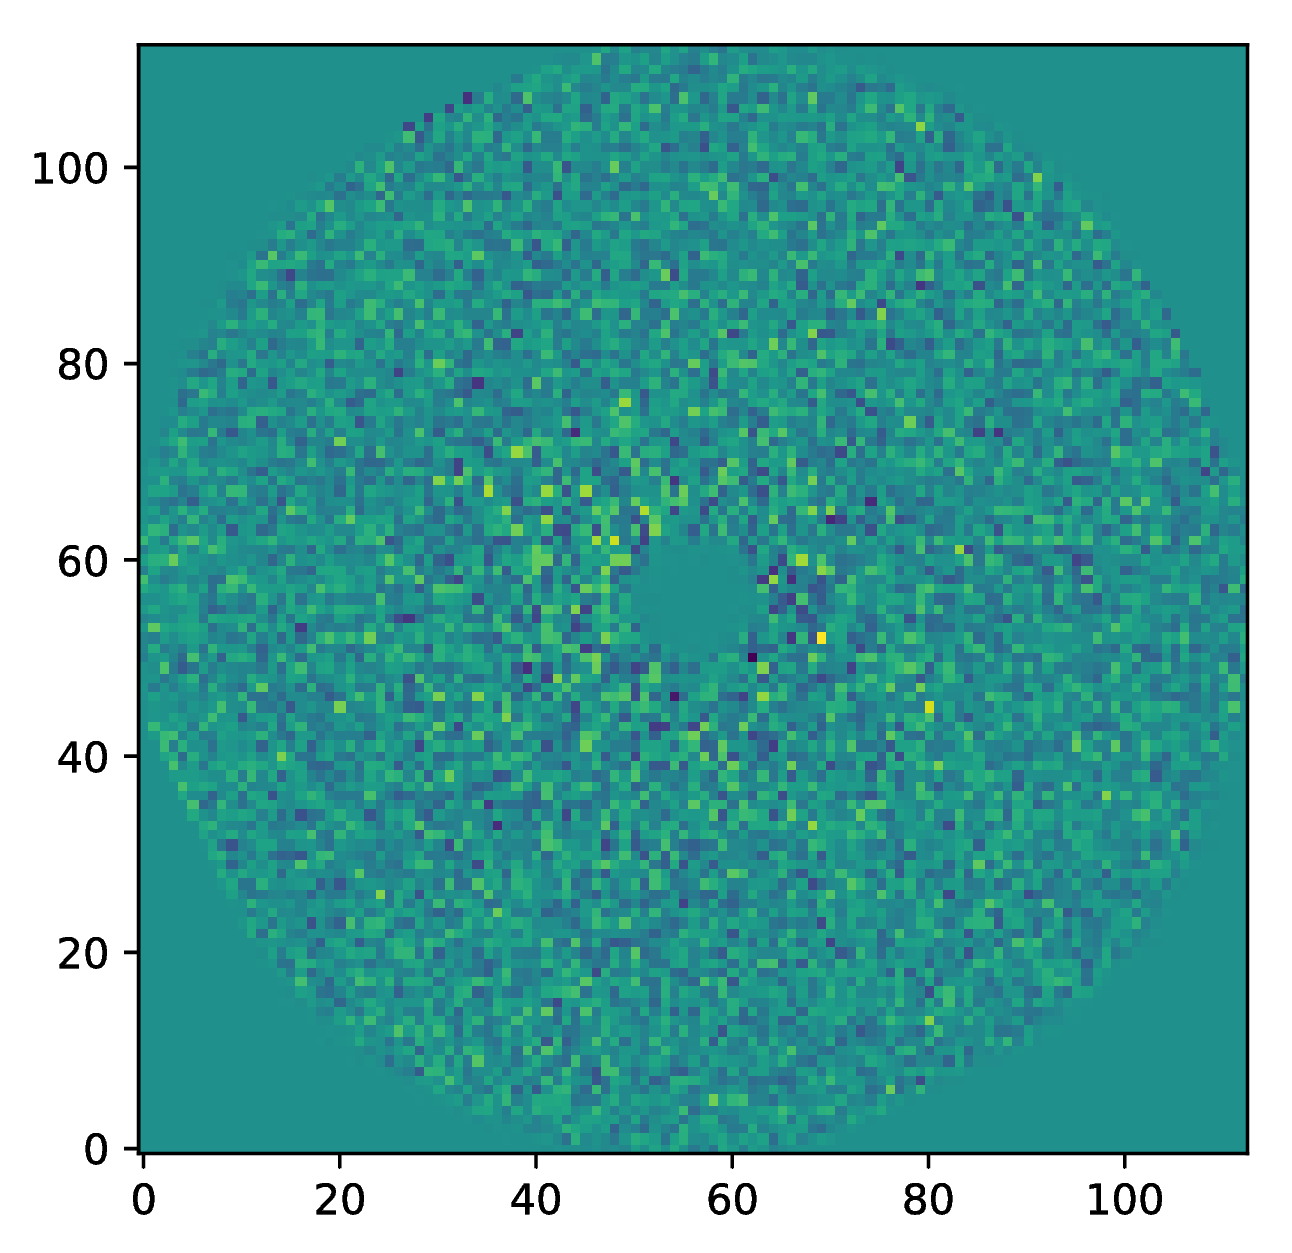
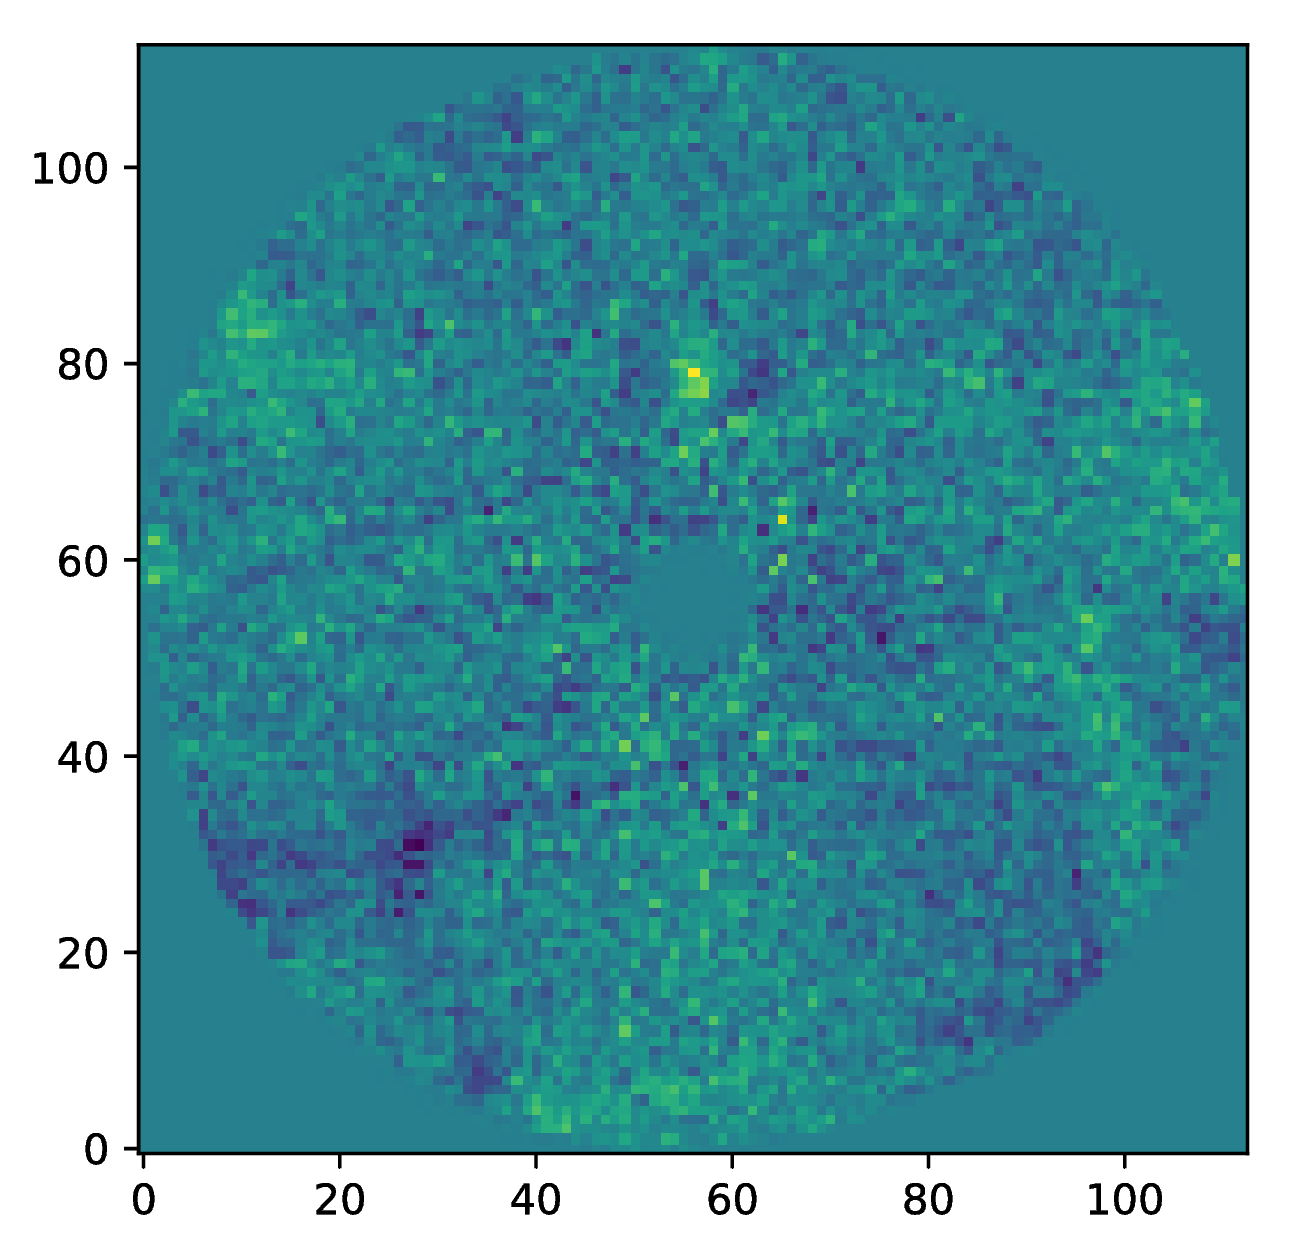
NEAR documentation and testing

diff --git a/pynpoint/processing/centering.py b/pynpoint/processing/centering.py
@@ -970,6 +970,9 @@ class FitCenterModule(ProcessingModule):
                                           'Running FitCenterModule')
 
         elif self.m_method == 'mean':
+            sys.stdout.write("Running FitCenterModule...")
+            sys.stdout.flush()
+
             im_mean = np.zeros(self.m_image_in_port.get_shape()[1:3])
 
             for i, _ in enumerate(frames[:-1]):
@@ -980,6 +983,9 @@ class FitCenterModule(ProcessingModule):
             best_fit = np.repeat(best_fit, nimages, axis=0)
 
             self.m_fit_out_port.set_all(best_fit, data_dim=2)
+
+            sys.stdout.write(" [DONE]\n")
+            sys.stdout.flush()
 
         if self.m_count > 0:
             print(f'Fit could not converge on {self.m_count} image(s). [WARNING]')

diff --git a/docs/near.rst b/docs/near.rst
@@ -131,13 +131,13 @@ Pipeline modules are added sequentially to the pipeline and are executed either 
                                 image_out_tag='psfa',
                                 image_size=5.,
                                 search_size=1.,
-                                filter_size=0.3)
+                                filter_size=None)
 
    pipeline.add_module(module)
 
    # Subtract frame-by-frame chop B from chop A
 
-   module = SubtractImagesModule(name_in='subtract',
+   module = SubtractImagesModule(name_in='subtract2',
                                  image_in_tags=('chopa_crop', 'chopb_crop'),
                                  image_out_tag='chopa_sub',
                                  scaling=1.)
@@ -154,7 +154,7 @@ Pipeline modules are added sequentially to the pipeline and are executed either 
                                 accuracy=10,
                                 resize=None,
                                 num_references=10,
-                                subframe=2.0)
+                                subframe=1.)
 
    pipeline.add_module(module)
 
@@ -209,21 +209,9 @@ Pipeline modules are added sequentially to the pipeline and are executed either 
 
    pipeline.add_module(module)
 
-   # Mask the central and outer part of the chop A images
-
-   module = PSFpreparationModule(name_in='prep1',
-                                 image_in_tag='chopa_center',
-                                 image_out_tag='chopa_prep',
-                                 mask_out_tag=None,
-                                 norm=False,
-                                 cent_size=0.3,
-                                 edge_size=2.)
-
-   pipeline.add_module(module)
-
    # Mask the non-coronagraphic PSF beyond 1 arsec
 
-   module = PSFpreparationModule(name_in='prep2',
+   module = PSFpreparationModule(name_in='prep1',
                                  image_in_tag='psfa_center',
                                  image_out_tag='psfa_mask',
                                  mask_out_tag=None,
@@ -233,9 +221,34 @@ Pipeline modules are added sequentially to the pipeline and are executed either 
 
    pipeline.add_module(module)
 
+   # Inject a fake planet at a separation of 1 arcsec and a contrast of 10 mag
+
+   module = FakePlanetModule(position=(1., 0.),
+                             magnitude=10.,
+                             psf_scaling=1.,
+                             interpolation='spline',
+                             name_in='fake',
+                             image_in_tag='chopa_center',
+                             psf_in_tag='psfa_mask',
+                             image_out_tag='chopa_fake')
+
+   pipeline.add_module(module)
+
+   # Mask the central and outer part of the chop A images
+
+   module = PSFpreparationModule(name_in='prep2',
+                                 image_in_tag='chopa_fake',
+                                 image_out_tag='chopa_prep',
+                                 mask_out_tag=None,
+                                 norm=False,
+                                 cent_size=0.3,
+                                 edge_size=3.)
+
+   pipeline.add_module(module)
+
    # Subtract a PSF model with PCA and median-combine the residuals
 
-   module = PcaPsfSubtractionModule(pca_numbers=range(1, 31),
+   module = PcaPsfSubtractionModule(pca_numbers=range(1, 51),
                                     name_in='pca',
                                     images_in_tag='chopa_prep',
                                     reference_in_tag='chopa_prep',
@@ -244,15 +257,47 @@ Pipeline modules are added sequentially to the pipeline and are executed either 
 
    pipeline.add_module(module)
 
+   # Calculate detection limits between 0.8 and 2.0 arcsec
+   # The false positive fraction is fixed to 2.87e-6 (i.e. 5 sigma for Gaussian statistics)
+
+   module = ContrastCurveModule(name_in='limits',
+                                image_in_tag='chopa_center',
+                                psf_in_tag='psfa_mask',
+                                contrast_out_tag='limits',
+                                separation=(0.3, 2., 0.1),
+                                angle=(0., 360., 60.),
+                                threshold=('fpf', 2.87e-6),
+                                psf_scaling=1.,
+                                aperture=0.15,
+                                pca_number=10,
+                                cent_size=0.3,
+                                edge_size=3.,
+                                extra_rot=0.,
+                                residuals='median')
+ 
+   pipeline.add_module(module)
+
    # Datasets can be exported to FITS files by their tag name in the database
    # Here we will export the median-combined residuals of the PSF subtraction
 
-   module = FitsWritingModule(name_in='write',
+   module = FitsWritingModule(name_in='write1',
                               file_name='chopa_pca.fits',
                               output_dir=None,
                               data_tag='chopa_pca',
                               data_range=None,
                               overwrite=True)
+
+   pipeline.add_module(module)
+
+   # And we write the detection limits to a text file
+
+   header = 'Separation [arcsec] - Contrast [mag] - Variance [mag] - FPF'
+
+   module = TextWritingModule(name_in='write2',
+                              file_name='contrast_curve.dat',
+                              output_dir=None,
+                              data_tag='limits',
+                              header=header)
 
    pipeline.add_module(module)
 
@@ -279,6 +324,22 @@ And to plot the residuals for 10 principal components (Python indexing starts at
 
    plt.imshow(data[9, ], origin='lower')
    plt.show()
+
+Or to plot the detection limits with the error bars showing the variance of the six azimuthal positions that were tested::
+
+   data = pipeline.get_data('limits')
+
+   plt.figure(figsize=(7, 4))
+   plt.errorbar(data[:, 0], data[:, 1], data[:, 2])
+   plt.xlim(0., 2.5)
+   plt.ylim(18., 9.)
+   plt.xlabel('Separation [arcsec]')
+   plt.ylabel('Contrast [mag]')
+   plt.show()
+
+.. image:: _static/near_limits.png
+   :width: 70%
+   :align: center
 
 .. image:: _static/near_residuals.png
    :width: 60%

diff --git a/docs/overview.rst b/docs/overview.rst
@@ -88,8 +88,8 @@ Detection Limits
 Extract Star
 ~~~~~~~~~~~~
 
-* :class:`~pynpoint.processing.centering.StarExtractionModule` (CPU): Locate and crop the position of the star.
-* :class:`~pynpoint.processing.centering.ExtractBinaryModule` (CPU): Extract a PSF which rotates across a stack of images.
+* :class:`~pynpoint.processing.extract.StarExtractionModule` (CPU): Locate and crop the position of the star.
+* :class:`~pynpoint.processing.extract.ExtractBinaryModule` (CPU): Extract a PSF which rotates across a stack of images.
 
 Flux and Position
 ~~~~~~~~~~~~~~~~~

diff --git a/docs/pynpoint.processing.rst b/docs/pynpoint.processing.rst
@@ -44,6 +44,14 @@ pynpoint.processing.darkflat module
     :undoc-members:
     :show-inheritance:
 
+pynpoint.processing.extract module
+----------------------------------
+
+.. automodule:: pynpoint.processing.extract
+    :members:
+    :undoc-members:
+    :show-inheritance:
+
 pynpoint.processing.fluxposition module
 ---------------------------------------
 
